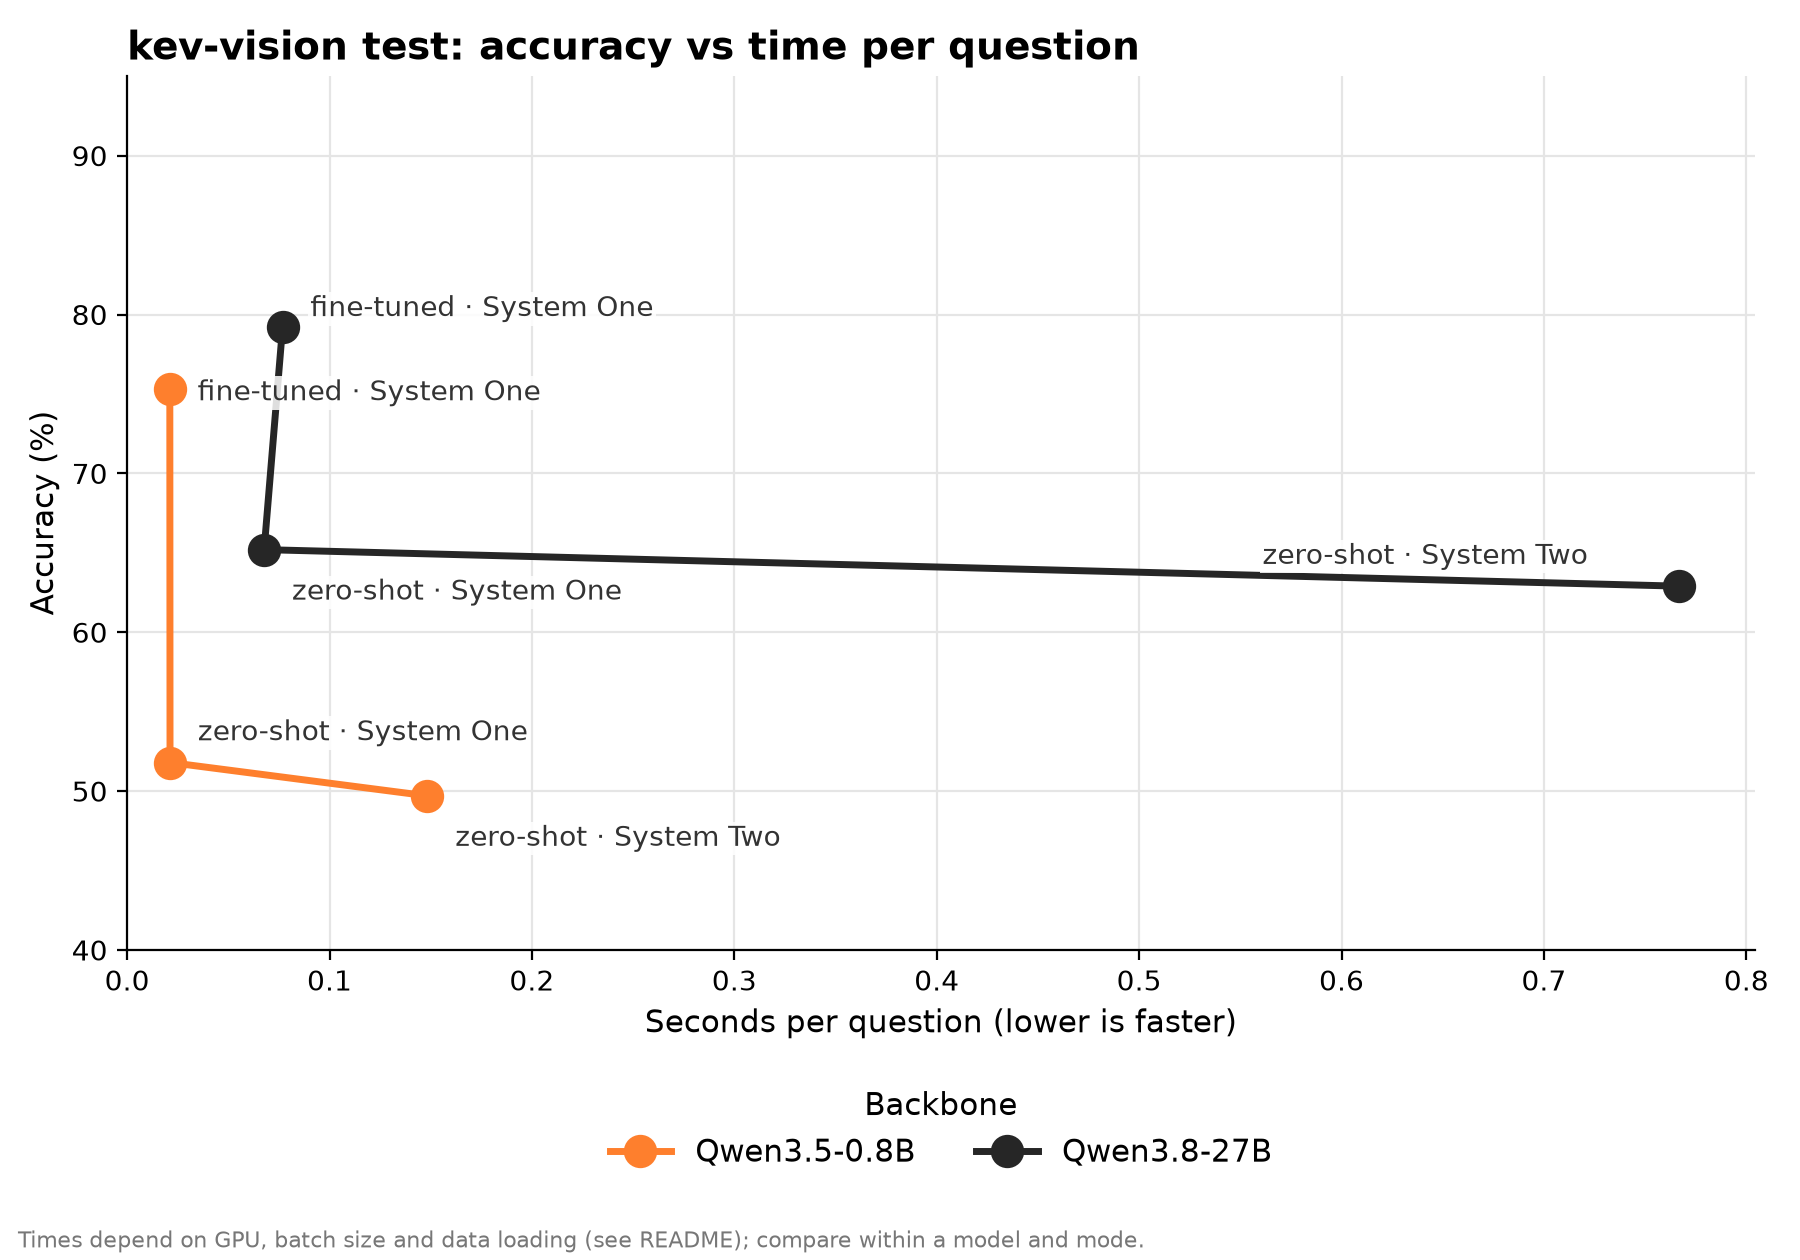
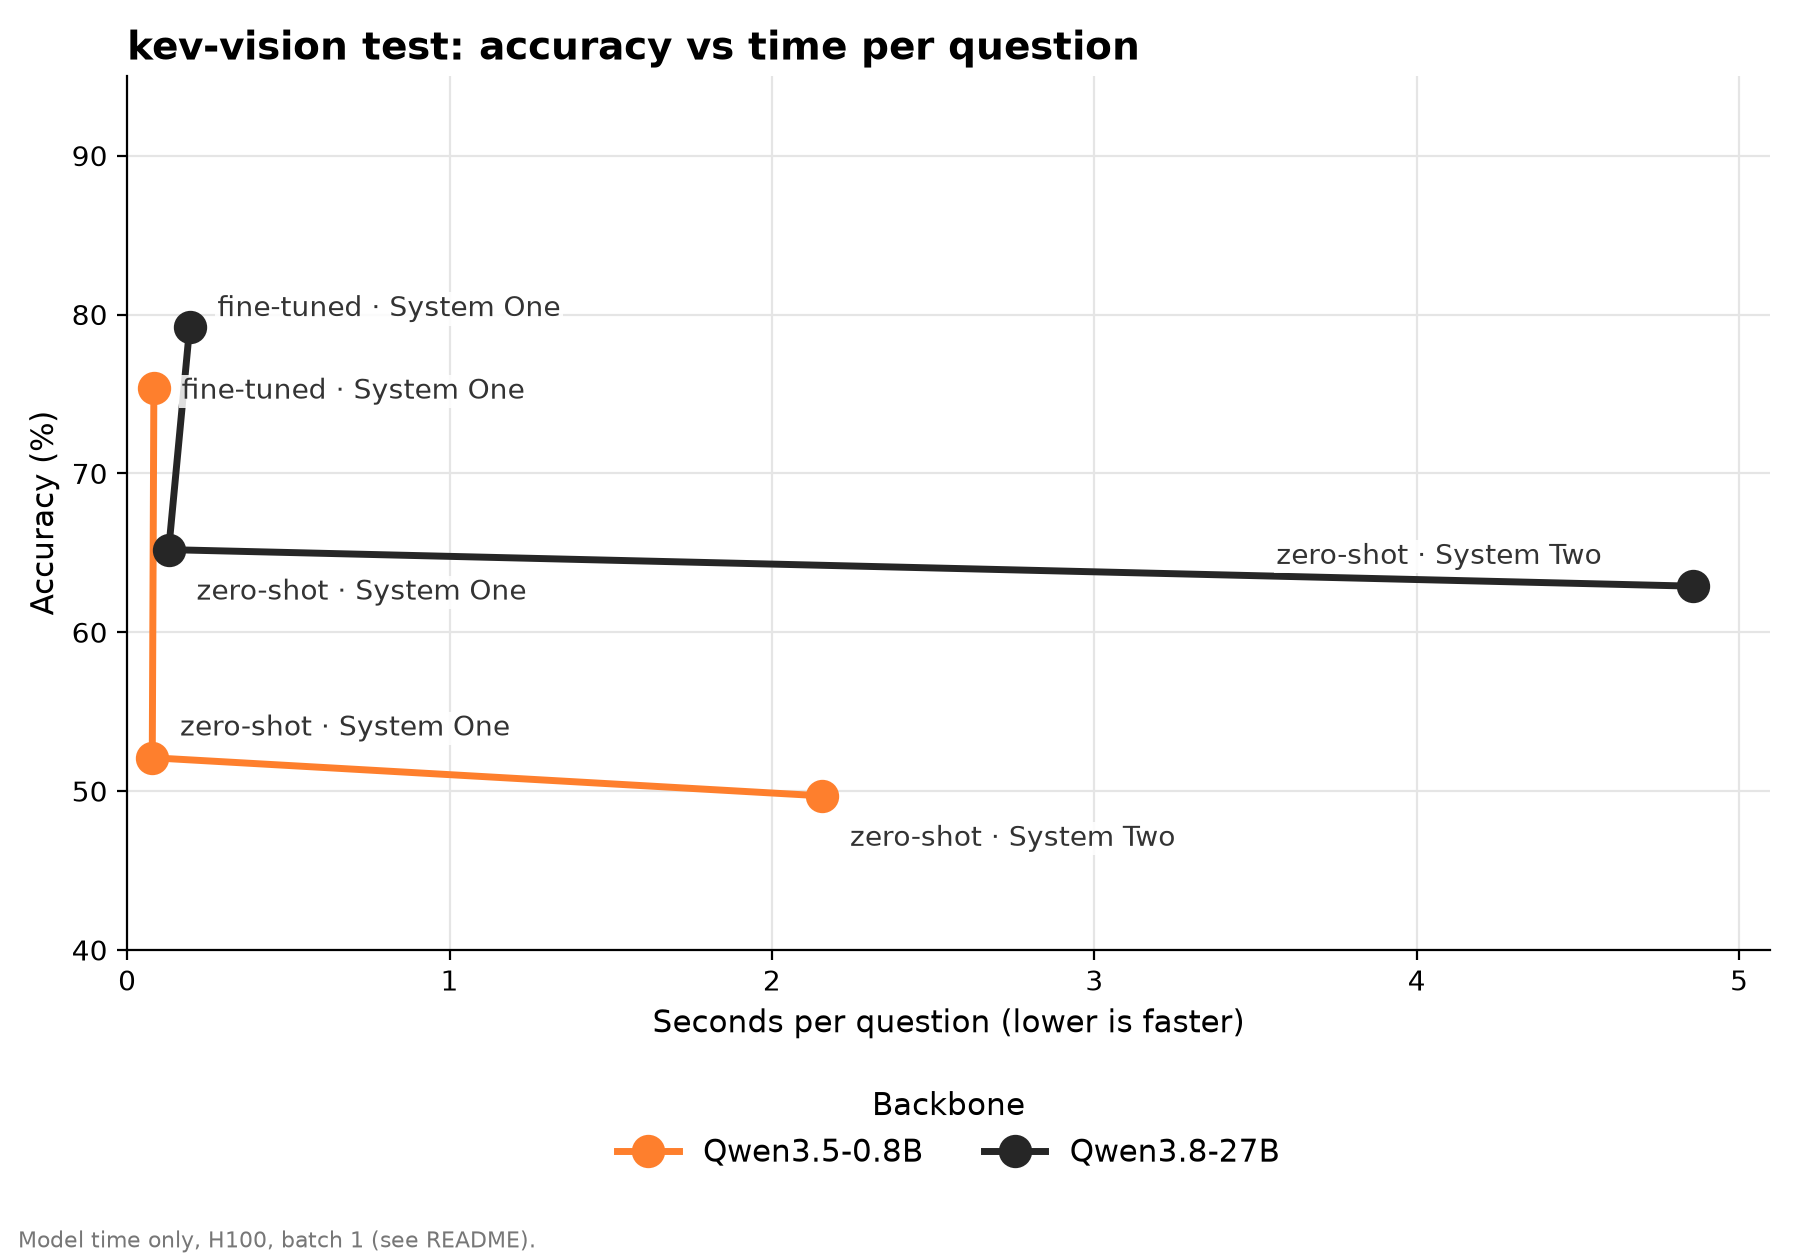
Updated graphs

diff --git a/README.md b/README.md
@@ -184,18 +184,18 @@ On `Jacqkues/kev-vision-decisions-full`:
 
 | Backbone | Model | Mode | Test set | Accuracy | Brier | ECE | Seconds/question |
 |---|---|---|---|---|---|---|---|
-| Qwen3.5-0.8B | zero-shot | System Two | `test` | 49.7% | 0.623 | 0.266 | 0.148 |
-| Qwen3.5-0.8B | zero-shot | System One | `test` | 52.1% | 0.512 | 0.100 | 0.070 |
-| Qwen3.5-0.8B | fine-tuned | System One | `test` | 75.4% | 0.262 | 0.031 | 0.067 |
-| Qwen3.8-27B | zero-shot | System Two | `test` | 62.9% | 0.497 | 0.232 | 0.767 |
-| Qwen3.8-27B | zero-shot | System One | `test` | 65.2% | 0.427 | 0.122 | 0.068 |
-| Qwen3.8-27B | fine-tuned | System One | `test` | 79.2% | 0.218 | 0.037 | 0.077 |
-| Qwen3.5-0.8B | zero-shot | System Two | `test_ood` | 60.4% | 0.477 | 0.143 | 0.166 |
-| Qwen3.5-0.8B | zero-shot | System One | `test_ood` | 58.6% | 0.505 | 0.049 | 0.064 |
-| Qwen3.5-0.8B | fine-tuned | System One | `test_ood` | 68.3% | 0.414 | 0.031 | 0.074 |
-| Qwen3.8-27B | zero-shot | System Two | `test_ood` | 82.2% | 0.212 | 0.075 | 1.008 |
-| Qwen3.8-27B | zero-shot | System One | `test_ood` | 74.5% | 0.338 | 0.046 | 0.392 |
-| Qwen3.8-27B | fine-tuned | System One | `test_ood` | 89.4% | 0.158 | 0.015 | 0.107 |
+| Qwen3.5-0.8B | zero-shot | System Two | `test` | 49.7% | 0.623 | 0.266 | 2.156 |
+| Qwen3.5-0.8B | zero-shot | System One | `test` | 52.1% | 0.512 | 0.100 | 0.078 |
+| Qwen3.5-0.8B | fine-tuned | System One | `test` | 75.4% | 0.262 | 0.031 | 0.083 |
+| Qwen3.8-27B | zero-shot | System Two | `test` | 62.9% | 0.497 | 0.232 | 4.857 |
+| Qwen3.8-27B | zero-shot | System One | `test` | 65.2% | 0.427 | 0.122 | 0.129 |
+| Qwen3.8-27B | fine-tuned | System One | `test` | 79.2% | 0.218 | 0.037 | 0.194 |
+| Qwen3.5-0.8B | zero-shot | System Two | `test_ood` | 60.4% | 0.477 | 0.143 | 2.293 |
+| Qwen3.5-0.8B | zero-shot | System One | `test_ood` | 58.6% | 0.505 | 0.049 | 0.088 |
+| Qwen3.5-0.8B | fine-tuned | System One | `test_ood` | 68.3% | 0.414 | 0.031 | 0.070 |
+| Qwen3.8-27B | zero-shot | System Two | `test_ood` | 82.2% | 0.212 | 0.075 | 3.977 |
+| Qwen3.8-27B | zero-shot | System One | `test_ood` | 74.5% | 0.338 | 0.046 | 0.147 |
+| Qwen3.8-27B | fine-tuned | System One | `test_ood` | 89.4% | 0.158 | 0.015 | 0.157 |
 
 `test_ood` holds sources not seen in training.
 
@@ -205,14 +205,13 @@ Accuracy against time per question, one graph per test set:
 
 ![Accuracy vs seconds per question on test_ood](assets/accuracy_vs_time_test_ood.png)
 
-Times depend on the GPU, batch size and data loading, so compare them within
-a model and mode. Qwen3.5-0.8B System One ran on Modal with the speed setup:
-H100, batch 1, 4 data workers, 8 reserved CPU cores, runs one after the
-other, time after 10 warm-up batches. The other rows are older runs:
-Qwen3.5-0.8B System Two on Modal (H200, batch 64); Qwen3.8-27B on an H200
-with 16 data workers (System One on RunPod, batch 4; System Two on Modal,
-batch 16). The 27B zero-shot System One time on `test_ood` is high: that run
-shared its storage with another test.
+Seconds/question is the model's time only (System One: the forward pass;
+System Two: the generation up to the final answer, thinking off), without
+data loading. All times come from the same setup: Modal, NVIDIA H100 80GB
+(pinned), batch 1, 4 data workers, 8 reserved CPU cores, runs one after the
+other, 200 random records per test set (about 265 questions on `test`, 200 on
+`test_ood`), after 10 warm-up questions. Accuracy, Brier and ECE come from
+runs on the full test sets.
 
 ## Limits
 - Max 26 options per question.
